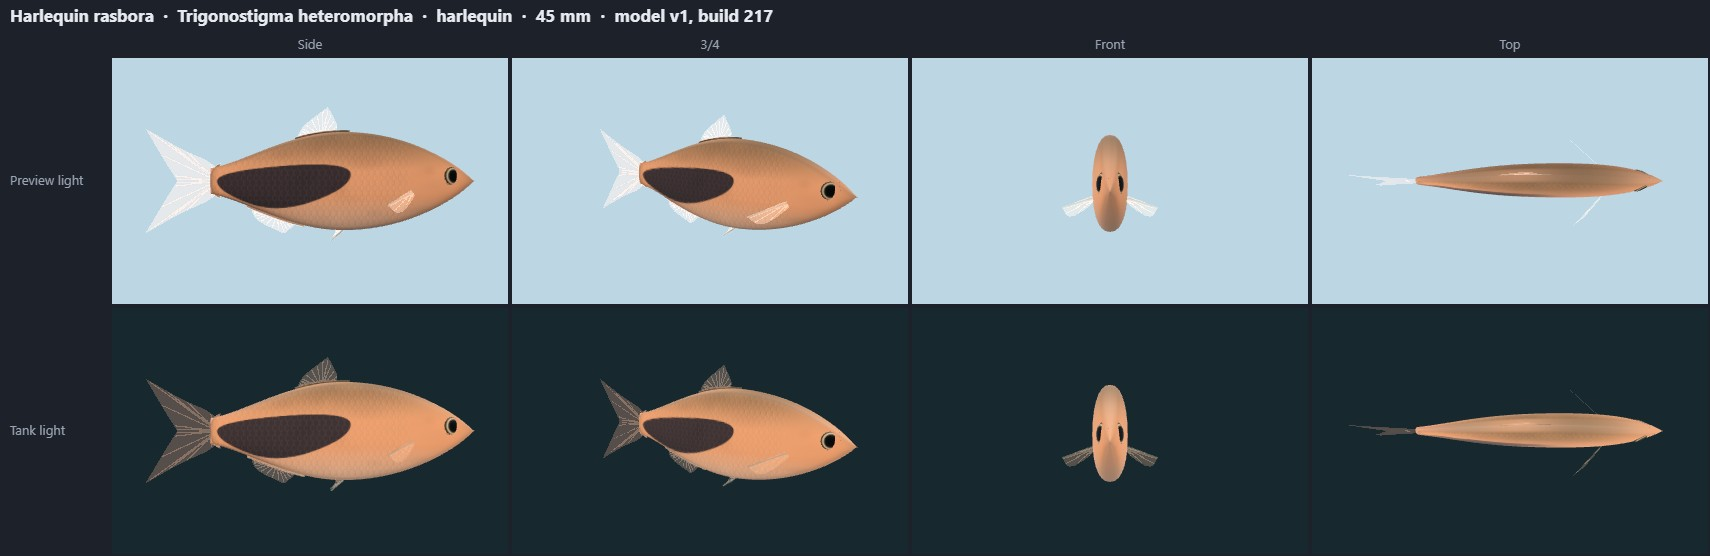
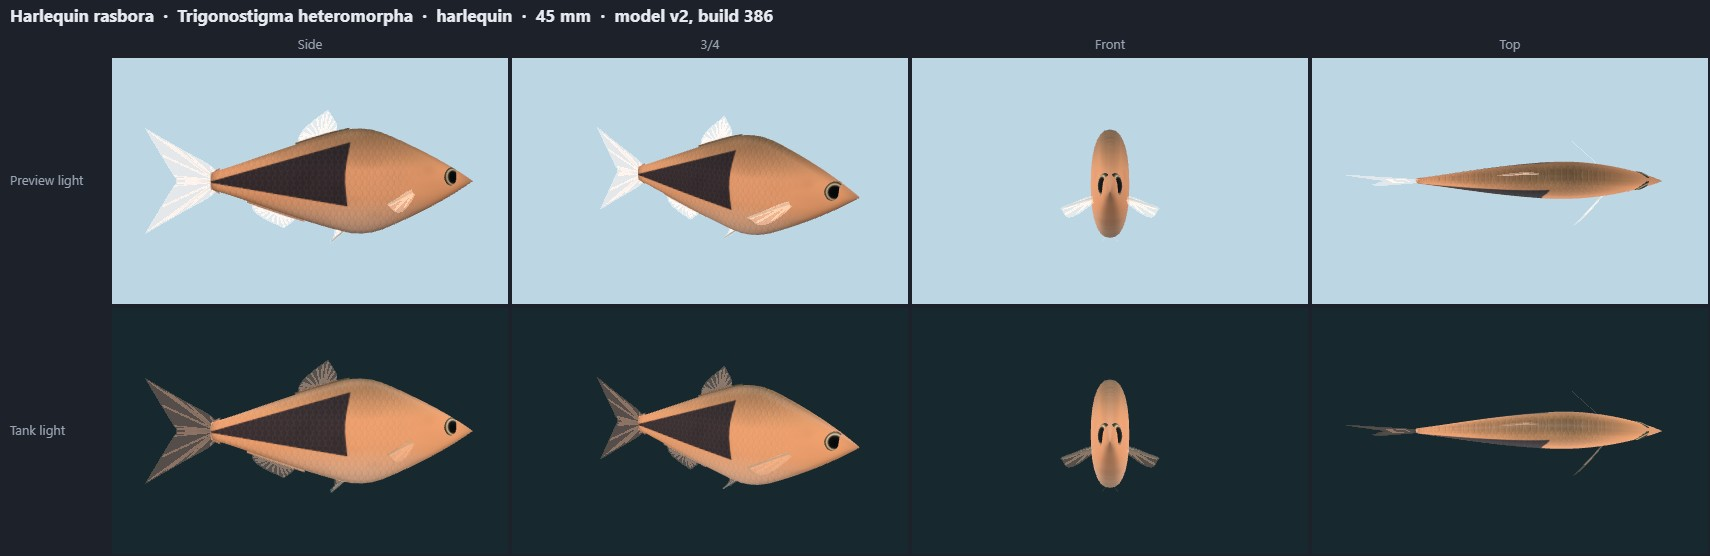
Lane F2: harlequin rasbora - rhomboid profile (angular, slender peduncle), triangular rear-body wedge, v2

diff --git a/public/model-sheets/index.html b/public/model-sheets/index.html
@@ -10,7 +10,7 @@ figure { margin: 8px 0 14px; padding: 8px; background: var(--panel); border-radi
 img { display: block; max-width: 100%; height: auto }
 </style></head><body>
 <h1>Model sheets</h1>
-<p>Pre-rendered review images of every TankLook animal model (no WebGL needed): 69 models, 58 species, written at build 384.
+<p>Pre-rendered review images of every TankLook animal model (no WebGL needed): 69 models, 58 species, written at build 386.
 Each sheet shows the Side, 3/4, Front, Top views; top row in the plain preview light, bottom row at true size in the default tank's LED light and water.
 Click a sheet for the full-size image (1710 × 556 px). Interactive version: <a href="../review.html">review.html</a>.</p>
 <h2>Freshwater fish</h2>
@@ -18,7 +18,7 @@ Click a sheet for the full-size image (1710 × 556 px). Interactive version: <a 
 <figure id="cardinal"><figcaption><b>Cardinal tetra</b> · <i>Paracheirodon axelrodi</i> · cardinal · 45 mm · model v2 (build 372, 2026-10-14)</figcaption><a href="cardinal.jpg"><img src="cardinal.jpg" width="1710" height="556" loading="lazy" alt="Cardinal tetra (Paracheirodon axelrodi), model v2: Side, 3/4, Front, Top views, preview light (top row) and tank light (bottom row)"></a></figure>
 <figure id="ember"><figcaption><b>Ember tetra</b> · <i>Hyphessobrycon amandae</i> · ember · 20 mm · model v2 (build 372, 2026-10-14)</figcaption><a href="ember.jpg"><img src="ember.jpg" width="1710" height="556" loading="lazy" alt="Ember tetra (Hyphessobrycon amandae), model v2: Side, 3/4, Front, Top views, preview light (top row) and tank light (bottom row)"></a></figure>
 <figure id="rummynose"><figcaption><b>Rummy-nose tetra</b> · <i>Hemigrammus rhodostomus</i> · rummynose · 50 mm · model v2 (build 372, 2026-10-14)</figcaption><a href="rummynose.jpg"><img src="rummynose.jpg" width="1710" height="556" loading="lazy" alt="Rummy-nose tetra (Hemigrammus rhodostomus), model v2: Side, 3/4, Front, Top views, preview light (top row) and tank light (bottom row)"></a></figure>
-<figure id="harlequin"><figcaption><b>Harlequin rasbora</b> · <i>Trigonostigma heteromorpha</i> · harlequin · 45 mm · model v1 (build 217, 2026-10-14)</figcaption><a href="harlequin.jpg"><img src="harlequin.jpg" width="1710" height="556" loading="lazy" alt="Harlequin rasbora (Trigonostigma heteromorpha), model v1: Side, 3/4, Front, Top views, preview light (top row) and tank light (bottom row)"></a></figure>
+<figure id="harlequin"><figcaption><b>Harlequin rasbora</b> · <i>Trigonostigma heteromorpha</i> · harlequin · 45 mm · model v2 (build 386, 2026-10-14)</figcaption><a href="harlequin.jpg"><img src="harlequin.jpg" width="1710" height="556" loading="lazy" alt="Harlequin rasbora (Trigonostigma heteromorpha), model v2: Side, 3/4, Front, Top views, preview light (top row) and tank light (bottom row)"></a></figure>
 <figure id="chili"><figcaption><b>Chili rasbora</b> · <i>Boraras brigittae</i> · chili · 18 mm · model v2 (build 372, 2026-10-14)</figcaption><a href="chili.jpg"><img src="chili.jpg" width="1710" height="556" loading="lazy" alt="Chili rasbora (Boraras brigittae), model v2: Side, 3/4, Front, Top views, preview light (top row) and tank light (bottom row)"></a></figure>
 <figure id="danio"><figcaption><b>Zebra danio</b> · <i>Danio rerio</i> · danio · 50 mm · model v2 (build 372, 2026-10-14)</figcaption><a href="danio.jpg"><img src="danio.jpg" width="1710" height="556" loading="lazy" alt="Zebra danio (Danio rerio), model v2: Side, 3/4, Front, Top views, preview light (top row) and tank light (bottom row)"></a></figure>
 <figure id="cpd"><figcaption><b>Celestial pearl danio ♂</b> · <i>Danio margaritatus</i> · cpd · 25 mm · model v2 (build 372, 2026-10-14)</figcaption><a href="cpd.jpg"><img src="cpd.jpg" width="1710" height="556" loading="lazy" alt="Celestial pearl danio ♂ (Danio margaritatus), model v2: Side, 3/4, Front, Top views, preview light (top row) and tank light (bottom row)"></a></figure>

diff --git a/src/art/fishgen.ts b/src/art/fishgen.ts
@@ -461,9 +461,10 @@ export const PLANS: Record<string, Plan> = {
     marks: [{ k: 'blob', u: 0.93, v: -0.01, ru: 0.09, rv: 0.08, c: '#c4303a', a: 0.95 }],
     finMarks: [{ k: 'bars', us: [0.04, 0.12], w: 0.035, c: '#1e1e20', a: 0.85 }, { k: 'band', u0: 0, u1: 0.2, v0: -0.012, v1: 0.012, c: '#1e1e20', a: 0.85, f: 0.005 }],
     eye: { r: 0.024, iris: ['#d26a54', '#5a1e18'] } },
-  harlequin: { sharp: true, thick: 0.38, depth: 0.31, pedU: 0.2, ped: 0.045, peak: 0.5, snout: 0.3, shade: ['#8a6f58', '#d29a7c', '#e8c3ad'], tail: { type: 'fork', h: 0.16, tint: '#d79c82' }, fin: '#d6a48c',
+  // rhomboid: deep at the shoulder, straight back and belly lines to a slender peduncle; the black patch a triangular rear-body wedge
+  harlequin: { sharp: true, thick: 0.38, depth: 0.33, pedU: 0.2, ped: 0.03, peak: 0.58, angular: 0.7, snout: 0.3, shade: ['#8a6f58', '#d29a7c', '#e8c3ad'], tail: { type: 'fork', h: 0.16, tint: '#d79c82' }, fin: '#d6a48c',
     dorsal: { u0: 0.47, u1: 0.6, h: 0.09 }, anal: { u0: 0.33, u1: 0.47, h: 0.06 }, pelvic: { u: 0.6, len: 0.06 },
-    marks: [{ k: 'poly', pts: [[0.62, -0.06], [0.62, 0.02], [0.4, 0.1], [0.22, 0.03], [0.22, -0.03]], c: '#1f1d22', a: 0.88 }], eye: { r: 0.03, iris: ['#c8b8a0', '#55483a'] } },
+    marks: [{ k: 'poly', pts: [[0.62, -0.115, 'c'], [0.6, -0.02], [0.61, 0.075, 'c'], [0.19, 0.004, 'c']], c: '#1f1d22', a: 0.9 }], eye: { r: 0.03, iris: ['#c8b8a0', '#55483a'] } },
   chili: { gape: 0.02, gapeDrop: 0.005, thick: 0.42, depth: 0.21, pedU: 0.2, ped: 0.03, peak: 0.58, snout: 0.6, shade: ['#a5402e', '#d4563c', '#e07a5c'], tail: { type: 'fork', h: 0.13, tint: '#c95a44' }, fin: '#cf7056',
     dorsal: { at: 0.53, len: 0.06, h: 0.08, rake: 0.3, lead: 0.6, tip: 'point', trail: 0.045, drop: 0.2 }, anal: { at: 0.45, len: 0.1, h: 0.055, rake: 0.05, lead: 0.85, tip: 'point', trail: 0.03, drop: 0.35 }, pelvic: { u: 0.56, len: 0.05 },
     marks: [{ k: 'band', u0: 0.22, u1: 0.85, v0: -0.012, v1: 0.012, c: '#2a1a18', a: 0.7, f: 0.01 }, { k: 'blob', u: 0.24, v: 0, ru: 0.03, rv: 0.025, c: '#1a1212', a: 0.8 }],
